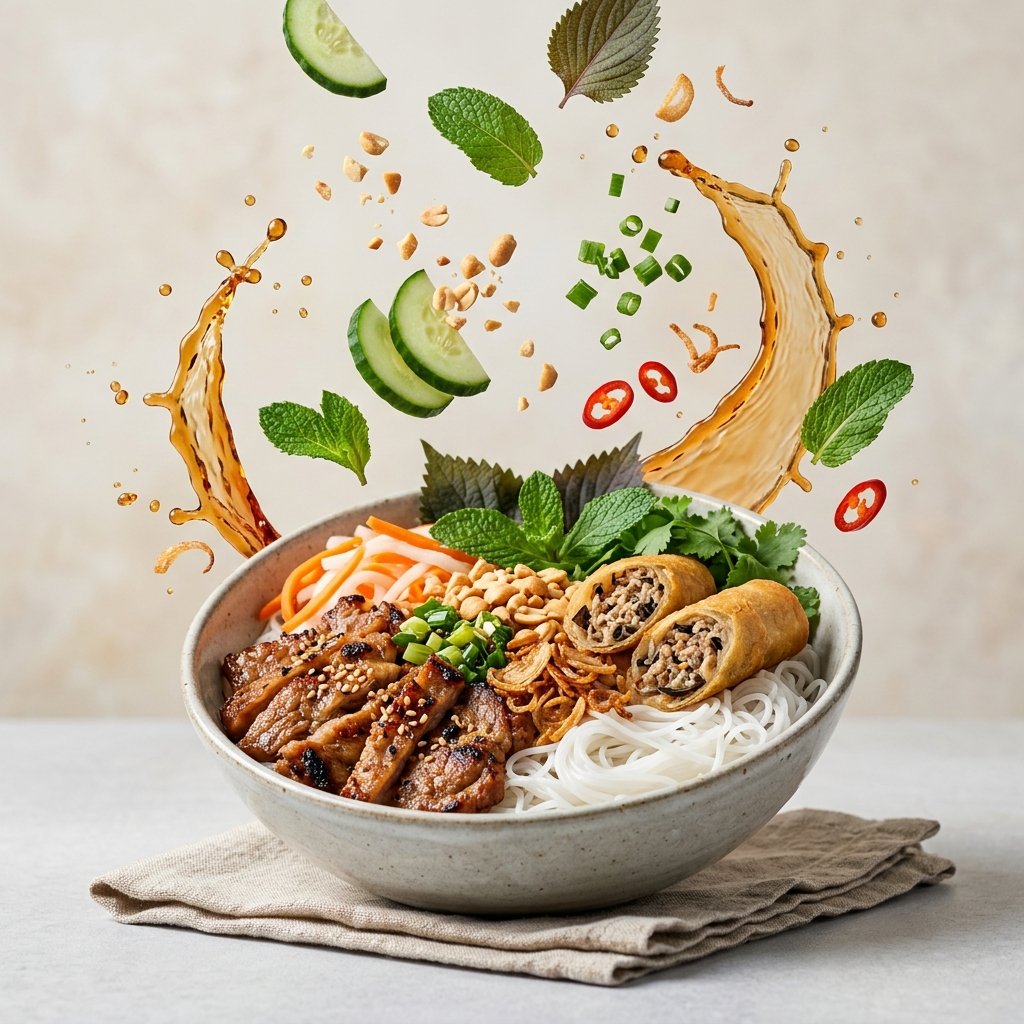
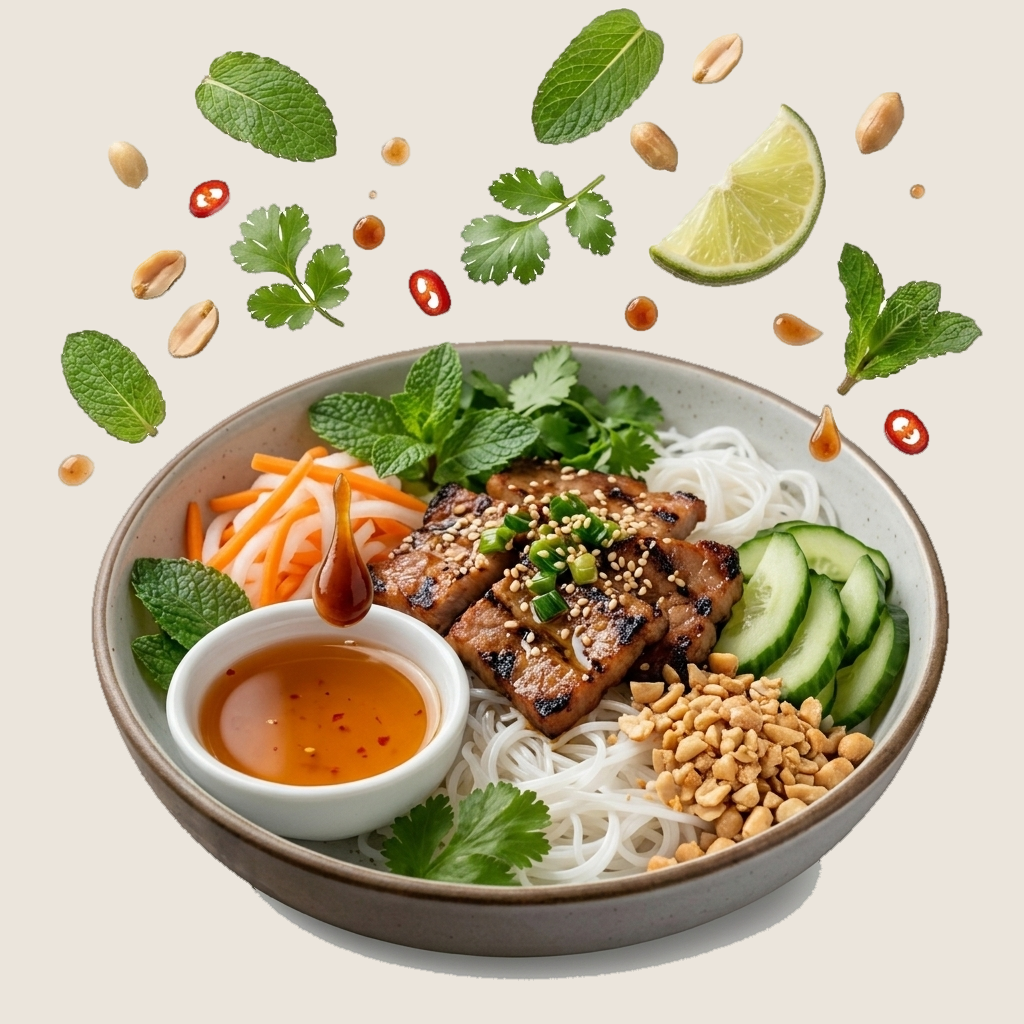
feat(images): add floating-garnish studio cutouts for Wings & Cha Gio, Bun Thit Nuong, and Ca Kho To

diff --git a/src/index.html b/src/index.html
@@ -1081,10 +1081,13 @@
                 </div>
 
                 <div class="menu-book-page menu-page-right">
-                  <div class="menu-page-header">
-                    <span class="menu-chapter-no">CHAPTER V (CONT.)</span>
-                    <h3 class="menu-chapter-title">MÓN QUÊ HƯƠNG — CLAY POT, CANH CHUA &amp; SEAFOOD</h3>
-                    <p class="menu-chapter-note">Traditional Southern Vietnamese family-style dishes</p>
+                  <div class="menu-page-header has-thumb">
+                    <div class="menu-page-header-text">
+                      <span class="menu-chapter-no">CHAPTER V (CONT.)</span>
+                      <h3 class="menu-chapter-title">MÓN QUÊ HƯƠNG — CLAY POT &amp; CANH CHUA</h3>
+                      <p class="menu-chapter-note">Traditional Southern Vietnamese family-style dishes</p>
+                    </div>
+                    <img src="assets/images/ca-kho-to-hero.jpg" alt="Cá Kho Tộ" class="menu-featured-img" />
                   </div>
                   <ul class="menu-book-list">
                     <li class="menu-book-item">
@@ -2168,8 +2171,8 @@
       <!-- Left Food Platter Cutout -->
       <div class="cta-plate cta-plate-left" aria-hidden="true">
         <img
-          src="assets/images/goi-cuon-hero-cutout.png"
-          alt="Fresh Shrimp & Pork Spring Rolls with Peanut Dip"
+          src="assets/images/cta-left-platter-cutout.png"
+          alt="Golden Crispy Imperial Rolls & Fish Sauce Glazed Wings"
           class="cta-plate-img"
           loading="lazy"
         />
@@ -2193,8 +2196,8 @@
       <!-- Right Food Platter Cutout -->
       <div class="cta-plate cta-plate-right" aria-hidden="true">
         <img
-          src="assets/images/com-tam-hero-cutout.png"
-          alt="Signature Lemongrass Pork Chop Broken Rice Platter"
+          src="assets/images/bun-thit-nuong-cutout.png"
+          alt="Char-Grilled Pork Vermicelli Bowl Bún Thịt Nướng"
           class="cta-plate-img"
           loading="lazy"
         />
